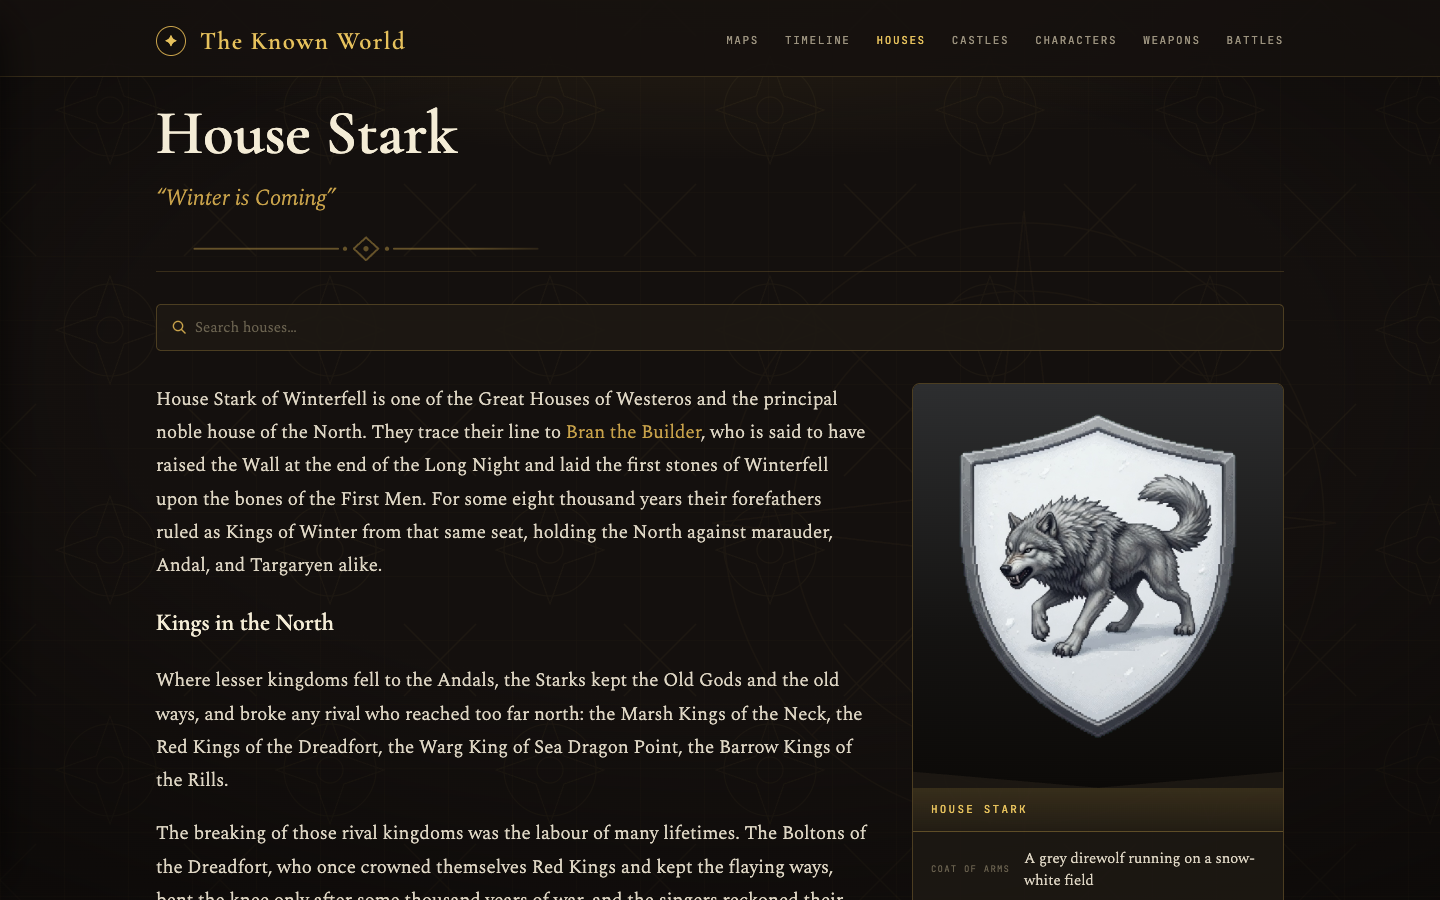
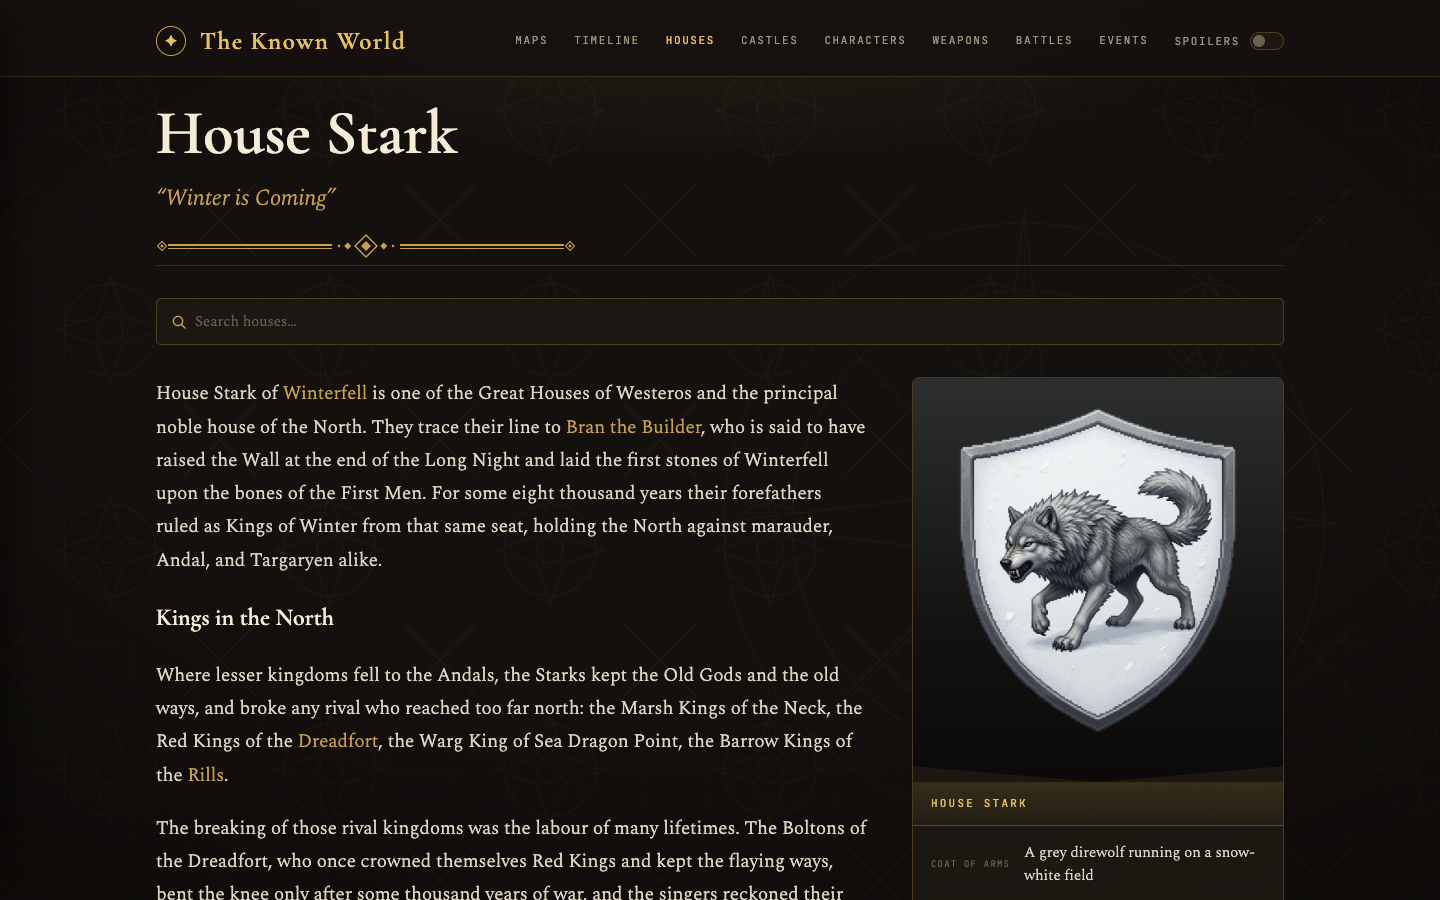
TKW: refresh `README.md` and screenshots
- retake all 10 screenshots from a production build at 1440×900
- add `castles-index.png`, `events-index.png`, `battles-index.png`, `weapons-index.png`
- `maps.png` shows the Winterfell hotspot popover
- new Features section: map hotspots, timeline, URL state, family trees, portraits, spoilers, prose links
- Stack: Bun test runner and happy-dom replace Vitest; Gale replaces Stylelint
- Commands: `lint:scss` replaces nonexistent `lint:css`; add `lint:ts`, `lint:actions`, `format`, `spellcheck`, `clean`
- Routes: add `/castles/`, `/events/`, `/design/`; note `/dragons/` is hidden from the nav
- hooks section matches `.husky/` (pre-push no longer builds) and PR CI
- list the seven content collections; add `.claude/`, `.github/`, `test/`, `types/` to the layout

diff --git a/README.md b/README.md
@@ -2,25 +2,44 @@
 
 An interactive, static atlas and encyclopedia for the world of _A Song of Ice
 and Fire_. It combines maps, a historical timeline, house and character
-genealogies, and reference pages for battles, dragons, and weapons.
+genealogies, and reference pages for castles, battles, events, dragons, and
+weapons.
 
 ## Screenshots
 
-|                                                                                             |                                                                                      |
-| ------------------------------------------------------------------------------------------- | ------------------------------------------------------------------------------------ |
-| **Main atlas menu**<br>![Main atlas menu](docs/screenshots/home.png)                        | **Interactive world map**<br>![Interactive world map](docs/screenshots/maps.png)     |
-| **Timeline**<br>![Timeline of battles and events](docs/screenshots/timeline.png)            | **House index**<br>![Searchable house index](docs/screenshots/houses-index.png)      |
-| **House Stark**<br>![House Stark page](docs/screenshots/house-stark.png)                    | **House Targaryen**<br>![House Targaryen page](docs/screenshots/house-targaryen.png) |
-| **Character index**<br>![Searchable character index](docs/screenshots/characters-index.png) | **Jon Snow**<br>![Jon Snow character page](docs/screenshots/character-jon-snow.png)  |
-| **Dragons**<br>![Dragon index](docs/screenshots/dragons-index.png)                          | **Winterfell**<br>![Winterfell castle page](docs/screenshots/castle-winterfell.png)  |
+|                                                                                             |                                                                                     |
+| ------------------------------------------------------------------------------------------- | ----------------------------------------------------------------------------------- |
+| **Main atlas menu**<br>![Main atlas menu](docs/screenshots/home.png)                        | **Interactive world map**<br>![Interactive world map](docs/screenshots/maps.png)    |
+| **Timeline**<br>![Timeline of battles and events](docs/screenshots/timeline.png)            | **Events**<br>![Searchable event index](docs/screenshots/events-index.png)          |
+| **House index**<br>![Searchable house index](docs/screenshots/houses-index.png)             | **House Stark**<br>![House Stark page](docs/screenshots/house-stark.png)            |
+| **Character index**<br>![Searchable character index](docs/screenshots/characters-index.png) | **Jon Snow**<br>![Jon Snow character page](docs/screenshots/character-jon-snow.png) |
+| **Castle index**<br>![Castle index](docs/screenshots/castles-index.png)                     | **Winterfell**<br>![Winterfell castle page](docs/screenshots/castle-winterfell.png) |
+| **House Targaryen**<br>![House Targaryen page](docs/screenshots/house-targaryen.png)        | **Dragons**<br>![Dragon index](docs/screenshots/dragons-index.png)                  |
+| **Battles**<br>![Battle index grouped by era](docs/screenshots/battles-index.png)           | **Weapons**<br>![Searchable weapon index](docs/screenshots/weapons-index.png)       |
+
+## Features
+
+- Pan-and-zoom world map with hotspots on the great seats, a hover popover for
+  each, and toggleable castle, battle, and event layers
+- Timeline of battles and events laid out by region, with a minimap and zoom
+- Searchable indexes, with sorting and pagination for houses and characters,
+  whose state lives in the URL
+- House family trees in list and chart views
+- Character portraits with hover videos and later-life variants
+- A global Spoilers switch, remembered per browser, that hides later-life
+  portraits until it is turned on
+- Prose that links mentioned characters, houses, castles, battles, events,
+  dragons, and weapons to their entries
 
 ## Stack
 
-- Next.js App Router with static export
-- React and TypeScript
+- Next.js 16 App Router with static export
+- React 19 and TypeScript
 - SCSS modules
 - Markdown content with YAML frontmatter, validated by Zod
-- Vitest and Testing Library
+- `nuqs` for URL search state, `react-svg-pan-zoom` for the map
+- Bun's test runner with Testing Library and happy-dom
+- Oxlint, Oxfmt, Gale, `typos`, and `tsgo` for the quality gates
 - Bun for dependency management and scripts
 - Netlify for deployment and image transformation
 
@@ -44,16 +63,23 @@ The site is available at <http://localhost:46642>.
 
 ```sh
 bun run dev             # start the development server
+bun run build           # create the static export in out/
+bun run clean           # remove the .next build cache
 bun run test            # run the test suite once
 bun run test:watch      # run tests in watch mode
-bun run coverage        # generate test coverage
-bun run typecheck       # check TypeScript
-bun run lint            # run Oxlint (type-aware)
-bun run lint:css        # run Stylelint on SCSS
+bun run coverage        # run tests with coverage thresholds
+bun run typecheck       # check TypeScript with tsgo
+bun run lint            # run lint:ts, lint:scss, and lint:actions
+bun run lint:ts         # run Oxlint on TypeScript
+bun run lint:scss       # run Gale on SCSS
+bun run lint:actions    # run actionlint on GitHub workflows
+bun run format          # format with Oxfmt
 bun run format:check    # check formatting with Oxfmt
-bun run build           # create the static export in out/
-bun run system-check    # run every repository quality gate
+bun run spellcheck      # check spelling with typos
+bun run system-check    # clean, typecheck, lint, spellcheck, test, and build
 ```
+
+`lint:ts:fix` and `lint:scss:fix` apply the linters' automatic fixes.
 
 Repository scripts must be run through Bun. Dependencies are pinned to exact
 versions in `package.json`.
@@ -67,20 +93,25 @@ versions in `package.json`.
 | `/timeline/`          | Chronological battles and events    |
 | `/houses/`            | Searchable and grouped house index  |
 | `/houses/[slug]/`     | House details and family tree       |
+| `/castles/`           | Castle index                        |
+| `/castles/[slug]/`    | Castle details                      |
 | `/characters/`        | Searchable character index          |
 | `/characters/[slug]/` | Character details and relationships |
-| `/battles/`           | Battle index                        |
-| `/battles/[slug]/`    | Battle details                      |
 | `/weapons/`           | Weapon index                        |
 | `/weapons/[slug]/`    | Weapon details                      |
-| `/dragons/`           | Dragon index                        |
-| `/dragons/[slug]/`    | Dragon details                      |
-| `/castles/[slug]/`    | Castle details                      |
+| `/battles/`           | Battle index grouped by era         |
+| `/battles/[slug]/`    | Battle details                      |
+| `/events/`            | Searchable event index              |
 | `/events/[slug]/`     | Timeline event details              |
+| `/dragons/`           | Dragon index (hidden from the nav)  |
+| `/dragons/[slug]/`    | Dragon details                      |
+| `/design/`            | Design system reference             |
 
 ## Repository layout
 
 ```text
+.claude/     Repository skills and agents
+.github/     Pull request, merge, and review workflows
 app/         Next.js routes and route-level styles
 components/  Reusable UI components and co-located tests
 content/     Markdown collections for atlas entities
@@ -88,14 +119,18 @@ docs/        Feature specifications, plans, and screenshots
 lib/         Content loading, validation, relationships, and utilities
 netlify/     Local Netlify build plugins
 public/      Images, sigils, maps, and other static assets
-styles/      Global design tokens and typographic primitives
+styles/      Global design tokens, breakpoints, and typographic primitives
+test/        Test preload (happy-dom, CSS module and next/image shims) and stubs
+types/       Ambient type declarations
 ```
 
 ## Content model
 
-Each entity is stored as `content/<collection>/<slug>.md`. Its filename must
-match the `slug` in its YAML frontmatter. Frontmatter is parsed and validated
-against the corresponding schema in `lib/schemas.ts`.
+Each entity is stored as `content/<collection>/<slug>.md`, across seven
+collections: `battles`, `castles`, `characters`, `dragons`, `events`, `houses`,
+and `weapons`. Its filename must match the `slug` in its YAML frontmatter.
+Frontmatter is parsed and validated against the corresponding schema in
+`lib/schemas.ts`.
 
 Cross-references use slugs. The content-integrity test validates unique slugs,
 filename/frontmatter agreement, and references between modeled entities. Run it
@@ -114,13 +149,16 @@ excluded from generated route parameters.
 Read `CLAUDE.md` for repository conventions before making changes. In
 particular:
 
-1. Create a branch for each feature or bug fix.
+1. Create a branch for each feature or bug fix, with a flat kebab-case name.
 2. Keep tests co-located with their implementation.
 3. Run `bun run system-check` before handing off a change.
-4. Prefix commit subjects with `TKW:`.
+4. Prefix commit subjects and pull request titles with `TKW:`.
 
-The pre-commit hook runs formatting, type checking, linting, and tests. The
-pre-push hook runs the production build.
+The pre-commit hook runs `lint-staged` (Oxlint, Gale, and Oxfmt on staged
+files), then the spellcheck, type check, and test suite. The pre-push hook
+fetches, prunes, and prints recent history. Pull requests run every gate plus
+the production build in GitHub Actions, skipping the build when its inputs are
+unchanged.
 
 ## Deployment
 
